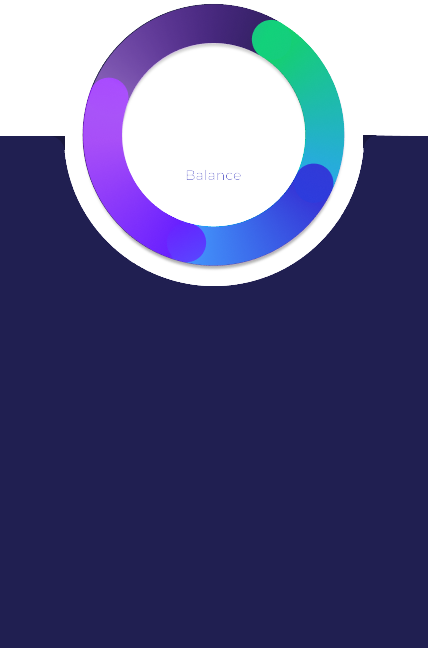
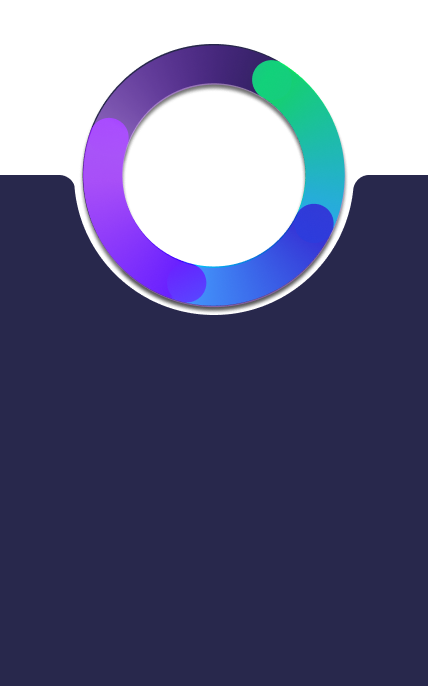
Fixed homepage background jagged edges, added transaction

Changed region(s): [[0.0, 0.0, 1.0, 0.463], [0.4252, 0.2469, 0.5164, 0.2778]]

diff --git a/src/pages/homepage.jsx b/src/pages/homepage.jsx
@@ -34,46 +34,53 @@ const Homepage = () => {
   }, [uid]);
   console.log(user);
   return (
-    <>
-      <div className=" bg-mainbg h-screen w-screen flex flex-col gap-10 font">
-        <div className="text-[2rem]">
-          <h1 className="text-center text-white pb-2  pt-10 z-10 relative">
-            Greetings,
-            <p className="text-center text-lightpurple pb-2 text-[2rem] z-10 relative leading-[2.5rem]">
-              {user ? user.username : "Loading.."}
-            </p>
-            <div
-              name="to position the stuff hehe ;)"
-              className="h-[5.6rem] w-full bg-mainbg"
-            ></div>
-          </h1>
-        </div>
-        <div className="text-[2rem]"></div>
-        <h1 className="text-center text-white pb-2  pt-10 relative z-10">
-          <h1 className="text-center text-white font-regular pb-2 text-[2.2rem] relative z-10 leading-[5rem]">
-            {user ? user.balance : "Loading.."}
-          </h1>
-        </h1>
-        <div className="relative z-10 text-white">
-          Transaction History:
-          <ul>
-            {user &&
-              Array.isArray(user.transaction_history) &&
-              user.transaction_history.map((transaction, index) => (
-                <li key={index}>{transaction}</li>
-              ))}
-          </ul>
-        </div>
-        <img
-          src={Homepagebg}
-          className="absolute h-auto w-auto bottom-0 left-0 z-0 "
-          alt="background"
-        />
-      </div>
-
-      <Navbar />
-    </>
-  );
+		<>
+			<div className=" bg-mainbg h-screen w-screen flex flex-col gap-10 font">
+				<div className="text-[2rem]">
+					<h1 className="text-center text-white pb-2  pt-10 z-10 relative">
+						Greetings,
+						<p className="text-center text-lightpurple pb-2 text-[2rem] z-10 relative leading-[2.5rem]">
+							{user ? user.username : "Loading.."}
+						</p>
+						<div
+							name="to position the stuff hehe ;)"
+							className="h-[5.6rem] w-full bg-mainbg"
+						></div>
+					</h1>
+				</div>
+				<div className="text-[2rem]"></div>
+				<h1 className="text-center text-white pb-2  pt-10 relative z-10">
+					<p className="text-center text-white font-regular pt-6 pb-2 pr-2 text-[2rem] relative z-10 leading-tight">
+						${user ? user.balance : "Loading.."}
+					</p>
+					<h1 className="text-center text-lightpurple font-regular pb-2 text-[1rem] relative z-10 leading-tight">
+						Balance
+					</h1>
+				</h1>
+				<div className="relative z-10 text-white mx-10 flex flex-col gap-5">
+					<p className="text-left pt-[3.5rem] text-white font-regular text-[1.2rem] relative z-10">
+						My Transactions:
+					</p>
+					<div className="bg-mainbg w-full h-[3rem] rounded-full"></div>
+					<div className="bg-mainbg w-full h-[3rem] rounded-full"></div>
+					<div className="bg-mainbg w-full h-[3rem] rounded-full"></div>
+					<ul>
+						{user &&
+							Array.isArray(user.transaction_history) &&
+							user.transaction_history.map((transaction, index) => (
+								<li key={index}>{transaction}</li>
+							))}
+					</ul>
+				</div>
+				<img
+					src={Homepagebg}
+					className="absolute h-auto w-auto bottom-0 left-0 z-0 "
+					alt="background"
+				/>{" "}
+			</div>
+			<Navbar />
+		</>
+	);
 };
 
 export default Homepage;
